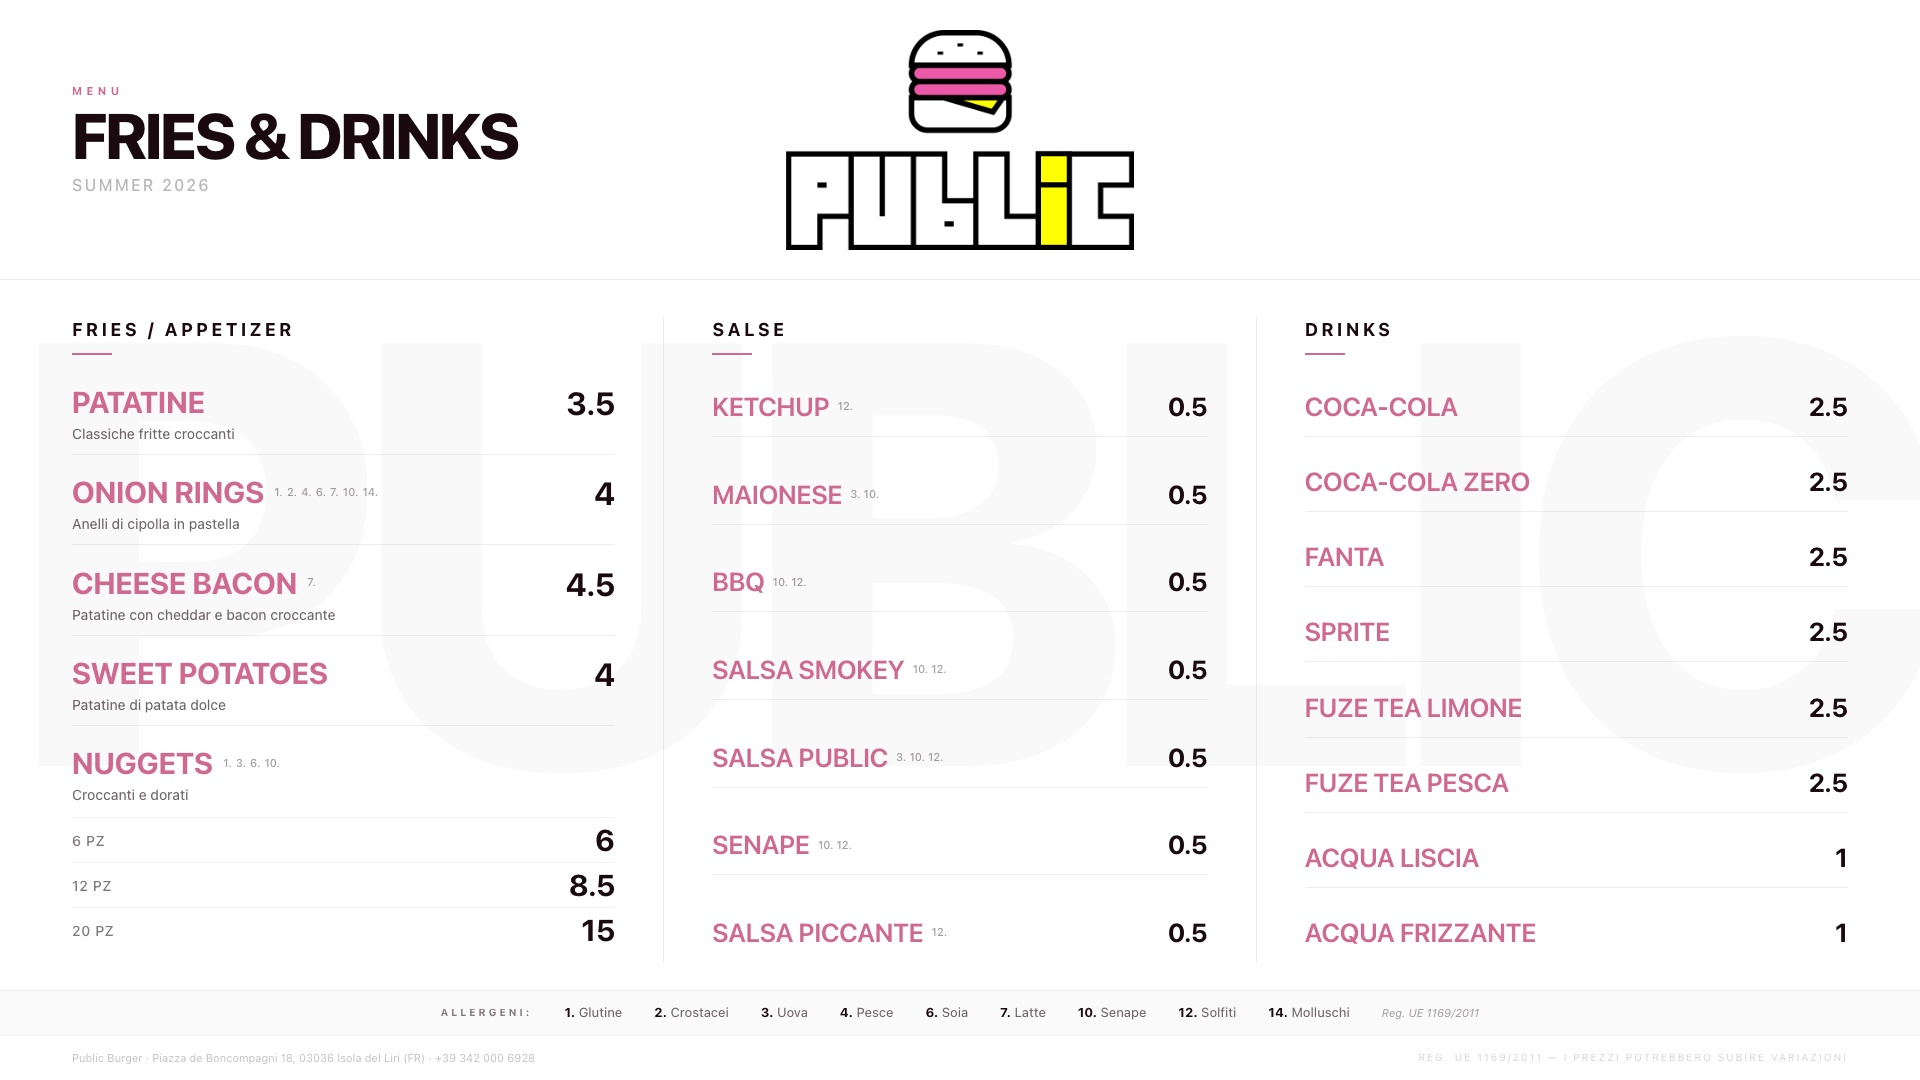
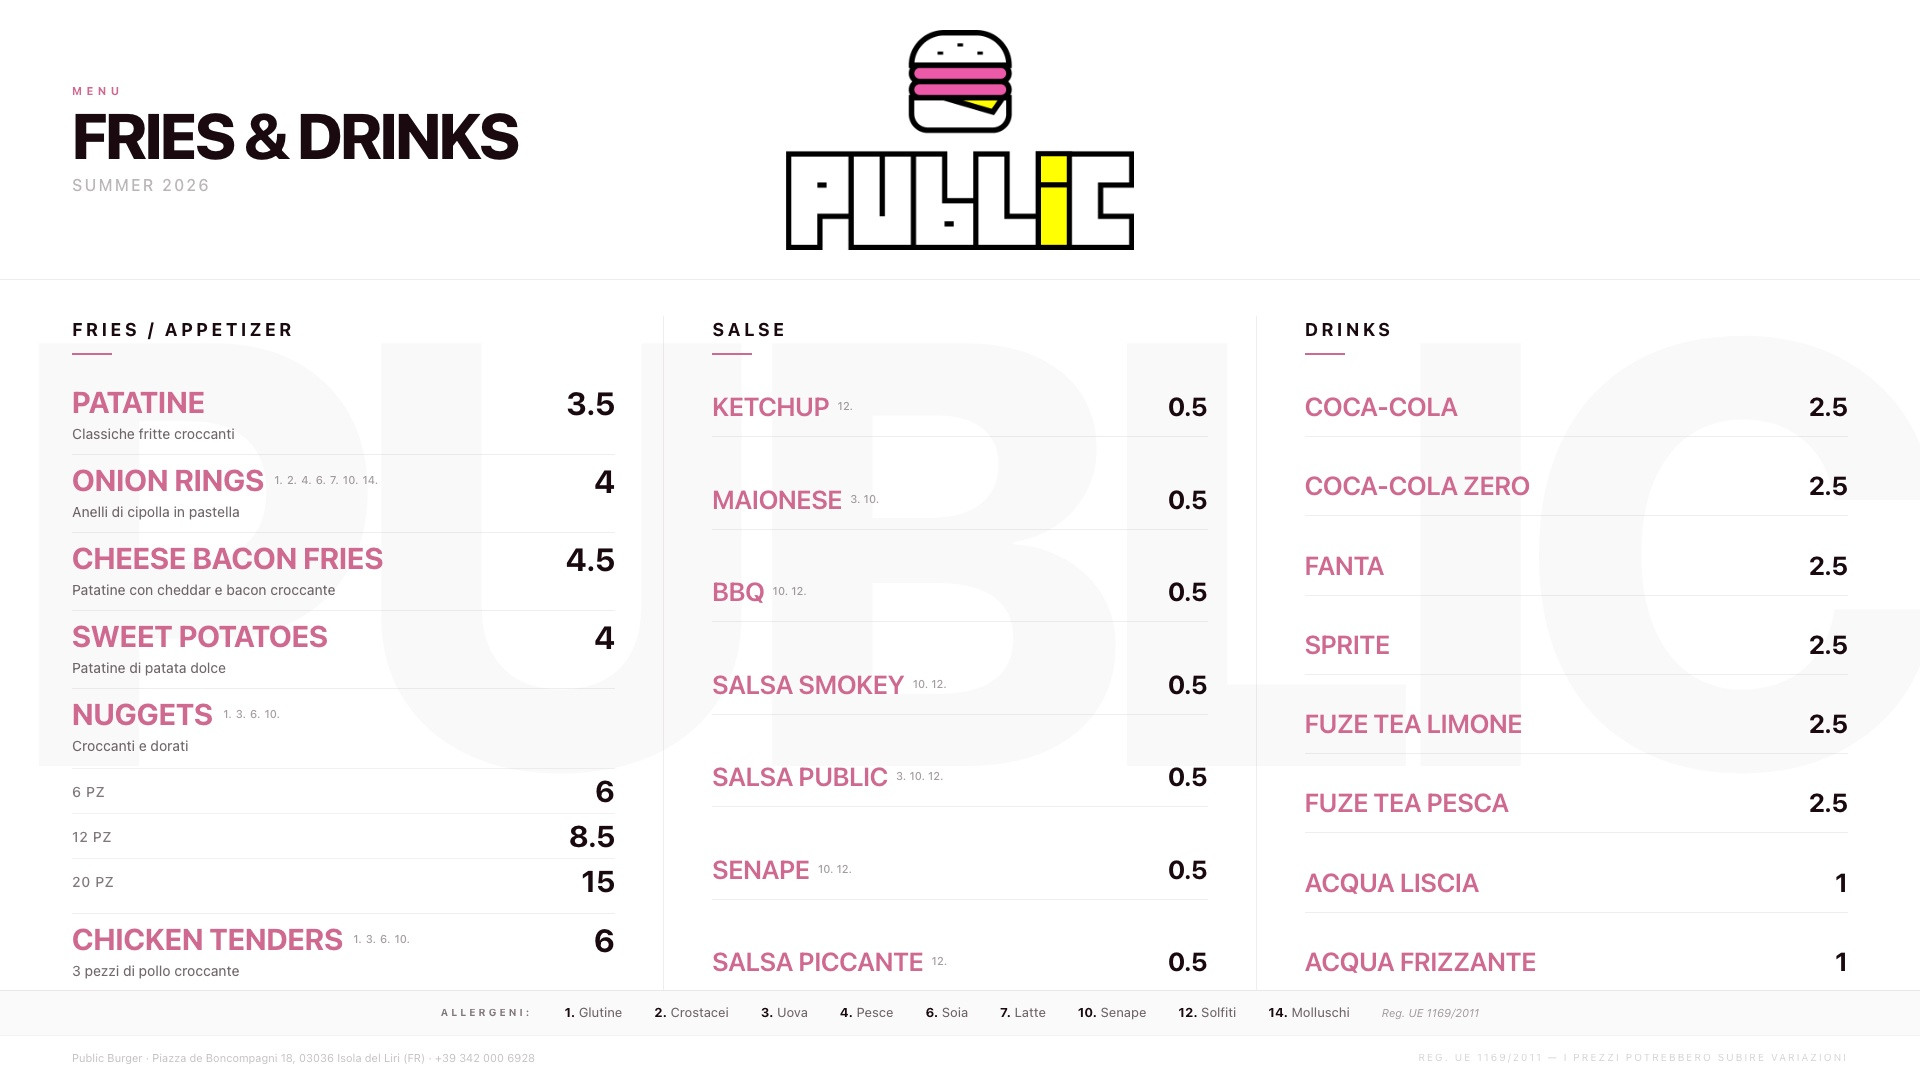
Update menu: Spicy Chicken + Chicken Lime, Chicken Tenders, 3-column prices

diff --git a/src/MenuDisplay.tsx b/src/MenuDisplay.tsx
@@ -26,8 +26,8 @@ const ALLERGENS: Record<string, number[]> = {
   'Jalapeño Popper':  [1, 3, 7],              // brioche(1,3,7) + cheddar(7) + creamy sauce philadelphia(7)
   'Pulled Pork':      [1, 3, 7, 10, 12],     // brioche(1,3,7) + coleslaw panna+mayo(3,7,10) + BBQ develey(10,12)
   'American Burger':  [1, 3, 7, 10, 12],     // bun(1,3,7) + cheddar(7) + uovo fritto(3) + BBQ(10,12)
-  'Chicken Burger':   [1, 3, 6, 7, 10],      // bun(1,3,7) + cotoletta(1,tracce6) + mayo(3,10) + senape cotoletta(10)
-  'Chicken Wrap':     [1, 3, 6, 10],         // piadina(1) + cotoletta(1,tracce6) + mayo(3,10)
+  'Spicy Chicken':    [1, 3, 6, 10, 12],     // bun(1,3,7) + cotoletta(1,tracce6) + salsa piccante(12)
+  'Chicken Lime':     [1, 3, 6, 10],         // bun(1,3,7) + cotoletta(1,tracce6) + mayo(3,10)
   'Ingordo':          [1, 3, 7, 10, 12],     // bun(1,3,7) + scamorza(7) + anelli fritti(1,3) + mayo(3,10) + BBQ(10,12)
   'Fake Burger':      [1, 3, 7, 10, 12],     // brioche(1,3,7) + cheddar(7) + mayo(3,10) + ketchup(12)
 };
@@ -42,14 +42,14 @@ const FRIES_ALLERGENS: Record<string, number[]> = {
   'Onion Rings':    [1, 2, 4, 6, 7, 10, 14], // glutine(farina+birra orzo) + tracce crostacei/pesce/soia/latte/senape/molluschi
   'Cheese Bacon':   [7],            // cheddar = latte
   'Sweet Potatoes': [],
-  'Nuggets':        [1, 3, 6, 10], // stessa cotoletta: glutine + tracce uova/soia/senape
+  'Nuggets':          [1, 3, 6, 10],
+  'Chicken Tenders':  [1, 3, 6, 10],
 };
 
 // ── BurgerItem ────────────────────────────────────────────────────────────────
 
 function BurgerItem({ burger, last }: { burger: typeof BURGERS[0]; last?: boolean }) {
   const singlePrice = burger.fixedPrice ?? burger.prices?.single ?? 0;
-  const menuPrice = singlePrice + 3;
 
   return (
     <div style={{
@@ -83,17 +83,23 @@ function BurgerItem({ burger, last }: { burger: typeof BURGERS[0]; last?: boolea
         </div>
       </div>
 
-      {/* Right: prices */}
-      <div style={{ display: 'flex', gap: 24, alignItems: 'center', flexShrink: 0, width: 200 }}>
-        <div style={{ textAlign: 'center', width: 90 }}>
-          <div style={{ fontSize: 10, letterSpacing: '0.25em', color: 'rgba(26,10,16,0.3)', textTransform: 'uppercase', marginBottom: 4 }}>Singolo</div>
-          <div style={{ fontSize: 36, fontWeight: 700, color: DARK, letterSpacing: '-0.02em', lineHeight: 1 }}>{singlePrice % 1 === 0 ? singlePrice : singlePrice.toFixed(1)}</div>
-        </div>
-        <div style={{ width: 1, height: 50, background: 'rgba(26,10,16,0.1)', flexShrink: 0 }} />
-        <div style={{ textAlign: 'center', width: 90 }}>
-          <div style={{ fontSize: 10, letterSpacing: '0.25em', color: PINK, textTransform: 'uppercase', marginBottom: 4, fontWeight: 600 }}>Menu</div>
-          <div style={{ fontSize: 36, fontWeight: 700, color: PINK, letterSpacing: '-0.02em', lineHeight: 1 }}>{menuPrice % 1 === 0 ? menuPrice : menuPrice.toFixed(1)}</div>
-        </div>
+      {/* Right: prices — Singolo / Doppio / Triplo */}
+      <div style={{ display: 'flex', gap: 0, alignItems: 'center', flexShrink: 0 }}>
+        {[
+          { label: 'Singolo', value: singlePrice, color: DARK },
+          { label: 'Doppio',  value: burger.prices?.double ?? null, color: DARK },
+          { label: 'Triplo',  value: burger.prices?.triple ?? null, color: DARK },
+        ].map(({ label, value }, i) => (
+          <div key={label} style={{ display: 'flex', alignItems: 'center' }}>
+            {i > 0 && <div style={{ width: 1, height: 50, background: 'rgba(26,10,16,0.1)', flexShrink: 0, margin: '0 18px' }} />}
+            <div style={{ textAlign: 'center', width: 80 }}>
+              <div style={{ fontSize: 10, letterSpacing: '0.25em', color: 'rgba(26,10,16,0.3)', textTransform: 'uppercase', marginBottom: 4 }}>{label}</div>
+              <div style={{ fontSize: 34, fontWeight: 700, color: DARK, letterSpacing: '-0.02em', lineHeight: 1 }}>
+                {value !== null ? (value % 1 === 0 ? value : value.toFixed(1)) : '—'}
+              </div>
+            </div>
+          </div>
+        ))}
       </div>
     </div>
   );
@@ -151,31 +157,6 @@ function Screen1() {
         ))}
       </div>
 
-      {/* Size upsell strip */}
-      <div style={{ position: 'relative', display: 'flex', alignItems: 'stretch', borderTop: '1px solid rgba(26,10,16,0.07)', borderBottom: '1px solid rgba(26,10,16,0.07)' }}>
-        {[
-          { label: 'Doppio', desc: '2 hamburger', extra: '+€ 4,00' },
-          { label: 'Triplo', desc: '3 hamburger', extra: '+€ 7,50' },
-        ].map(({ label, desc, extra }, i, arr) => (
-          <div key={label} style={{
-            flex: 1,
-            display: 'flex',
-            alignItems: 'center',
-            justifyContent: 'center',
-            gap: 20,
-            padding: '16px 0',
-            borderRight: i < arr.length - 1 ? '1px solid rgba(26,10,16,0.07)' : 'none',
-            background: i === 0 ? 'rgba(26,10,16,0.015)' : 'white',
-          }}>
-            <div style={{ textAlign: 'center' }}>
-              <div style={{ fontSize: 10, letterSpacing: '0.3em', color: 'rgba(26,10,16,0.3)', textTransform: 'uppercase', fontWeight: 600, marginBottom: 3 }}>{desc}</div>
-              <div style={{ fontSize: 24, fontWeight: 800, color: DARK, letterSpacing: '-0.02em', lineHeight: 1, textTransform: 'uppercase' }}>{label}</div>
-            </div>
-            <div style={{ width: 1, height: 32, background: 'rgba(26,10,16,0.1)' }} />
-            <div style={{ fontSize: 22, fontWeight: 700, color: PINK, letterSpacing: '-0.01em' }}>{extra}</div>
-          </div>
-        ))}
-      </div>
 
       {/* Allergen legend */}
       <div style={{ position: 'relative', display: 'flex', alignItems: 'center', justifyContent: 'center', gap: 32, padding: '12px 72px', borderTop: '1px solid rgba(26,10,16,0.08)', background: 'rgba(26,10,16,0.02)' }}>

diff --git a/src/menuData.ts b/src/menuData.ts
@@ -97,20 +97,20 @@ export const BURGERS: BurgerDef[] = [
     allergens: [1, 3, 7, 10, 12],
   },
   {
-    name: 'Chicken Burger',
+    name: 'Spicy Chicken',
     tag: 'Chicken',
-    spicy: false,
-    ingredients: ['Bun classico', 'Cotoletta di pollo croccante', 'Insalata', 'Pomodoro', 'Maionese'],
+    spicy: true,
+    ingredients: ['Bun classico', 'Cotoletta di pollo croccante', 'Insalata', 'Pomodoro', 'Salsa Piccante'],
     prices: null,
     fixedPrice: 8.5,
     combo: 3,
-    allergens: [1, 3, 6, 7, 10],
+    allergens: [1, 3, 6, 10, 12],
   },
   {
-    name: 'Chicken Wrap',
-    tag: 'Wrap',
+    name: 'Chicken Lime',
+    tag: 'Chicken',
     spicy: false,
-    ingredients: ['Piadina', 'Cotoletta di pollo croccante', 'Insalata', 'Pomodoro', 'Maionese'],
+    ingredients: ['Bun classico', 'Cotoletta di pollo croccante', 'Avocado', 'Insalata', 'Lime', 'Maionese'],
     prices: null,
     fixedPrice: 8.5,
     combo: 3,
@@ -124,6 +124,7 @@ export const FRIES: FryDef[] = [
   { name: 'Cheese Bacon Fries', desc: 'Patatine con cheddar e bacon croccante', price: 4.5, allergens: [7] },
   { name: 'Sweet Potatoes', desc: 'Patatine di patata dolce', price: 4.0, allergens: [] },
   { name: 'Nuggets', desc: 'Croccanti e dorati', price: 6, allergens: [1, 3, 6, 7, 9, 10, 11] },
+  { name: 'Chicken Tenders', desc: '3 pezzi di pollo croccante', price: 6, allergens: [1, 3, 6, 10] },
 ];
 
 // All unique toppings/sauces that can be added as extras
